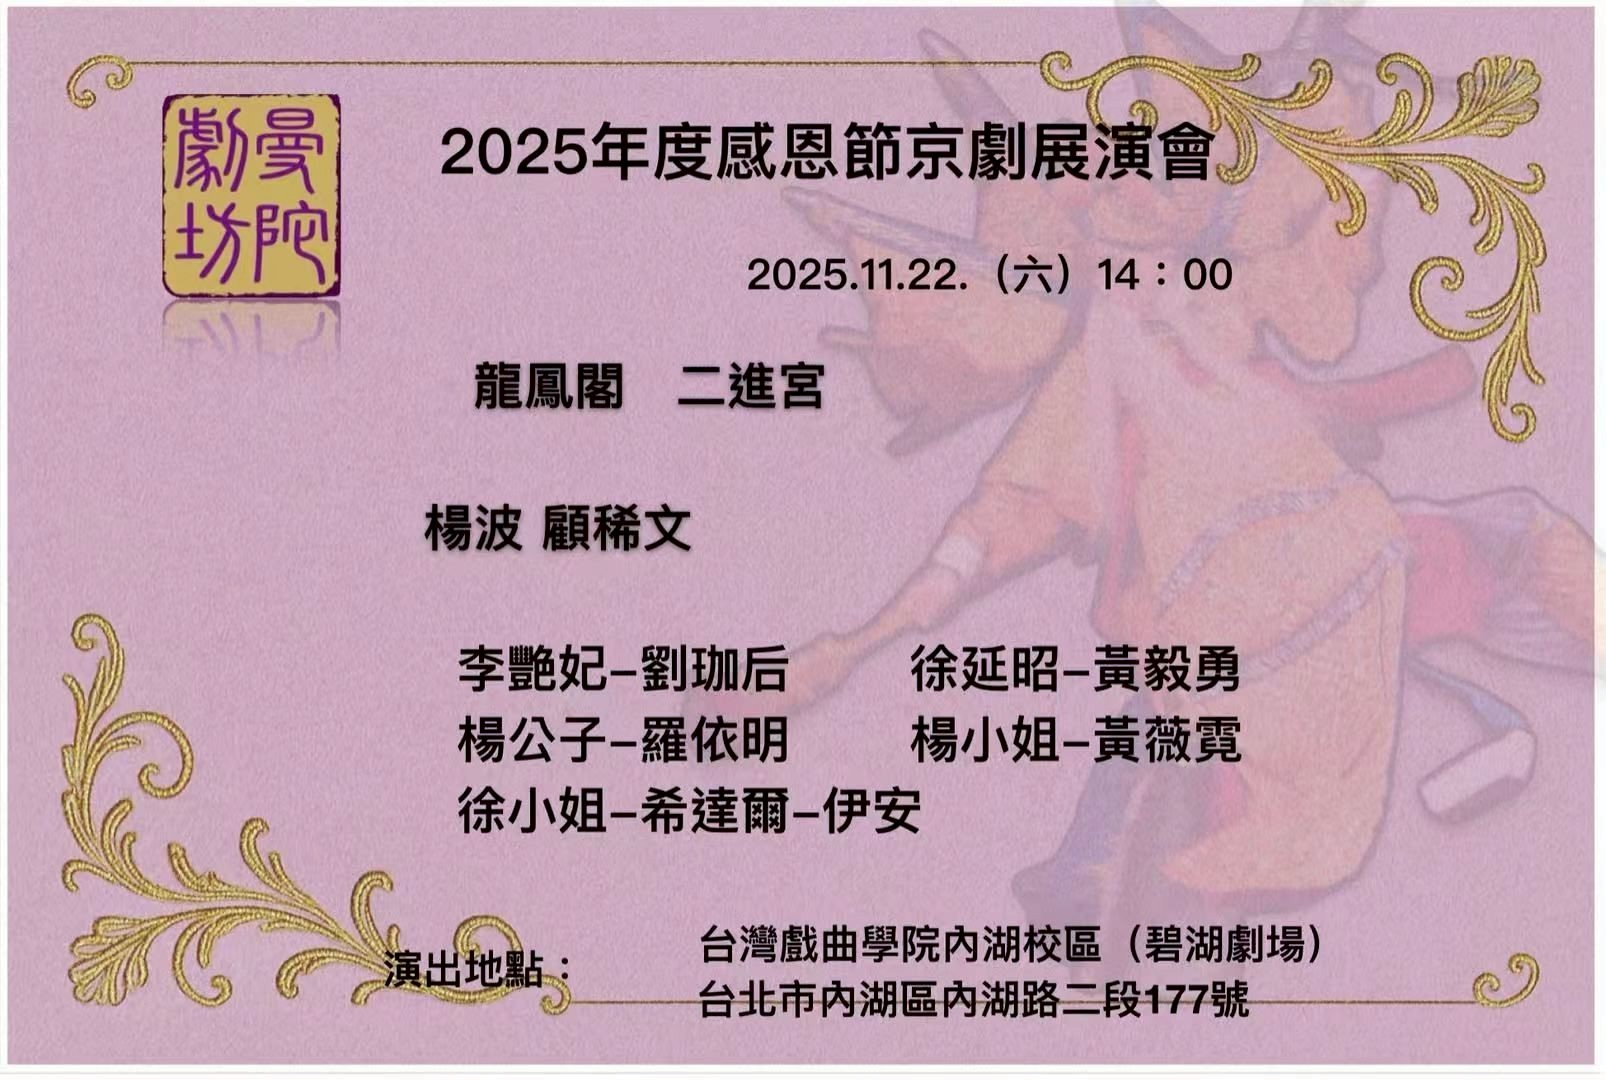
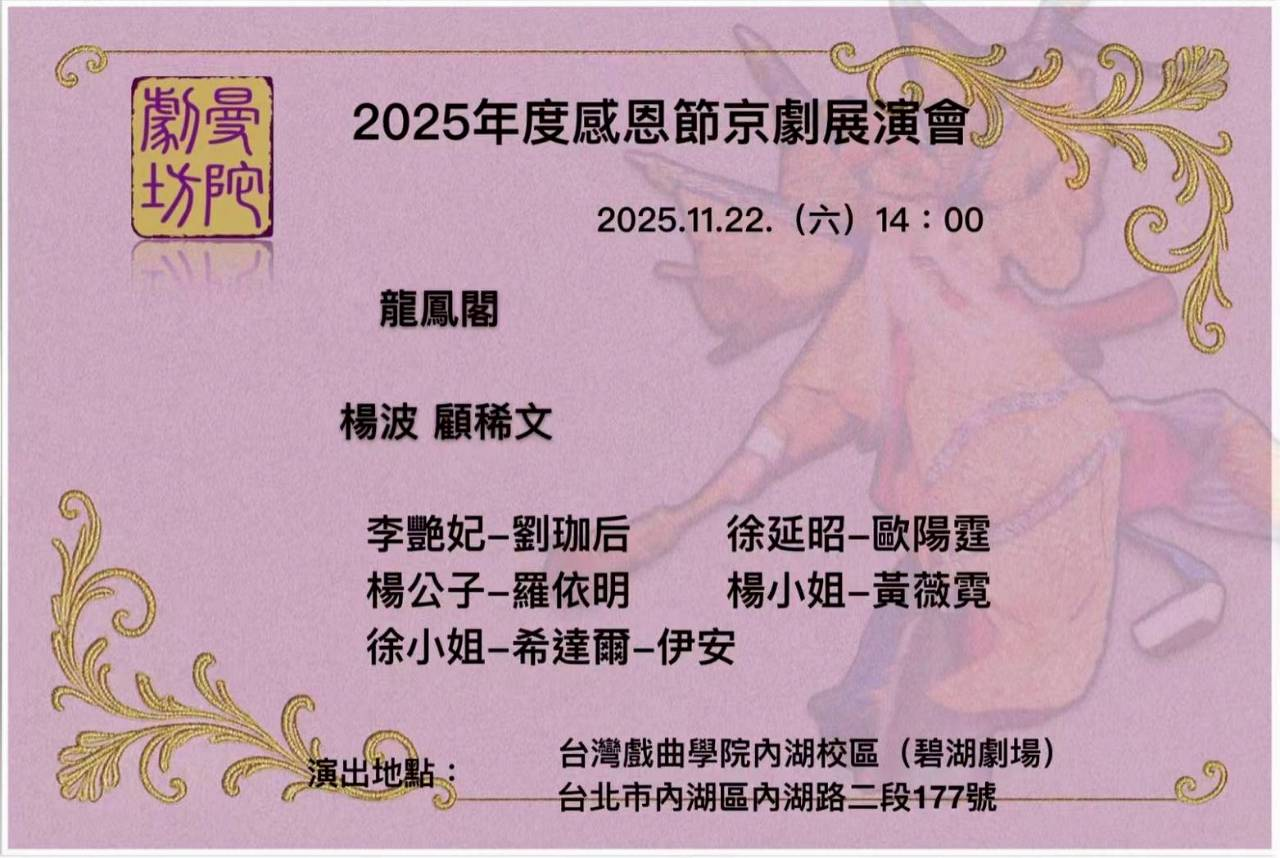
feat: 新增按鈕顯示；拆分指導單位；修改圖片
修改首頁圖片及人名位置
修改以下圖片：
	穆桂英-捧印
	龍鳳閣
	李陵碑-碰碑
	白蛇傳-斷橋
	爛柯山-痴夢
	法場換子
將製作團隊分為兩張，置於左上角按鈕
增加按鈕陰影，強調顯示

diff --git a/page.html b/page.html
@@ -46,13 +46,16 @@
             position: absolute;
             background: rgba(255, 0, 0, 0);
             /* 初始可見，便於對位 */
-            border: 1px solid rgba(255, 0, 0, 0);
+            border: 1px solid rgb(36, 19, 15, 0.001);
+            border-radius: 8px;
             cursor: pointer;
             z-index: 1;
+            box-shadow: 0 0 8px rgb(0, 0, 0, 0.5);
         }
 
         .hotspot:hover {
-            background: rgba(255, 0, 0, 0.05);
+            box-shadow: 0 0 8px rgb(0, 0, 0);
+            background: rgba(207, 158, 98, 0.001);
         }
     </style>
 </head>
@@ -97,24 +100,26 @@
             clearHotspots();
             switch (p) {
                 case "1":
+                    console.log("到頁1 首頁");
                     // 首頁：左上 → Page2、人名 → Page4~11、其餘 → Page3
                     addHotspot(0, 0, 1122, 794, "3"); // 其他區域-節目表
-                    addHotspot(110, 85, 135, 155, "2"); // 左上-製作團隊
-                    addHotspot(440, 400, 105, 65, "4"); // 馮德曼
-                    addHotspot(545, 400, 105, 65, "5"); // 高秋華
-                    addHotspot(340, 465, 100, 60, "6-1"); // 韓汝晶
-                    addHotspot(440, 465, 105, 60, "7"); // 齊安平
-                    addHotspot(545, 465, 105, 60, "8"); // 石鴻珍
-                    addHotspot(650, 465, 105, 60, "9"); // 顧稀文
-                    addHotspot(440, 525, 105, 55, "10"); // 劉祖光
-                    addHotspot(545, 525, 105, 55, "11"); // 張雅君
+                    addHotspot(110, 85, 135, 140, "2"); // 左上-製作團隊
+                    addHotspot(425, 405, 110, 65, "4"); // 馮德曼
+                    addHotspot(580, 405, 110, 65, "5"); // 高秋華
+                    addHotspot(265, 485, 110, 60, "6-1"); // 韓汝晶
+                    addHotspot(425, 485, 110, 60, "7"); // 齊安平
+                    addHotspot(580, 485, 110, 60, "8"); // 石鴻珍
+                    addHotspot(745, 485, 110, 60, "9"); // 顧稀文
+                    addHotspot(425, 570, 110, 55, "10"); // 劉祖光
+                    addHotspot(580, 570, 110, 55, "11"); // 張雅君
                     break;
                 case "2":
-                    // 製作團隊 - 到頁20指導單位
-                    addHotspot(0, 0, 1122, 794, "20");
+                    // 製作團隊 - 拆Part1 - 到頁21 Part2
+                    addHotspot(0, 0, 1122, 794, "21");
                     break;
                 case "3":
-                    addHotspot(380, 230, 340, 385, "1"); // 回首頁
+                    // addHotspot(380, 230, 340, 385, "1"); // 回首頁
+                    addHotspot(0, 0, 1122, 794, "1");
                     addHotspot(110, 270, 250, 80, "12"); // 掛画
                     addHotspot(110, 360, 250, 80, "13"); // 四郎探母-坐宮
                     addHotspot(110, 450, 250, 80, "14"); // 穆桂英-捧印
@@ -127,6 +132,11 @@
                 case "20":
                     // 指導單位 - 回首頁
                     addHotspot(0, 0, 1122, 794, "1");
+                    break;
+                case "21":
+                    // 製作團隊 Part - 到頁20 指導單位
+                    addHotspot(0, 0, 1122, 794, "20");
+                    break;
                 default:
                     if (p == "6-1") {
                         // 如果是韓汝晶第一頁，到第二頁
